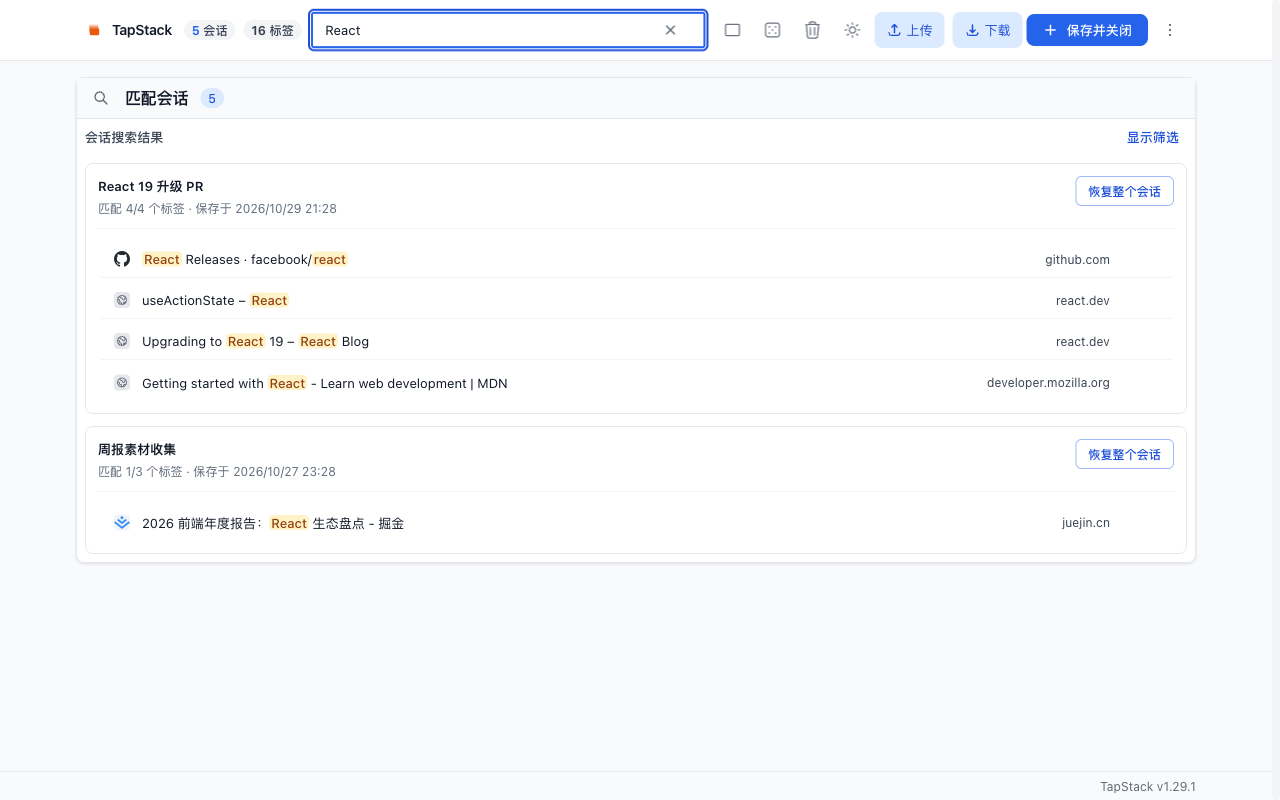
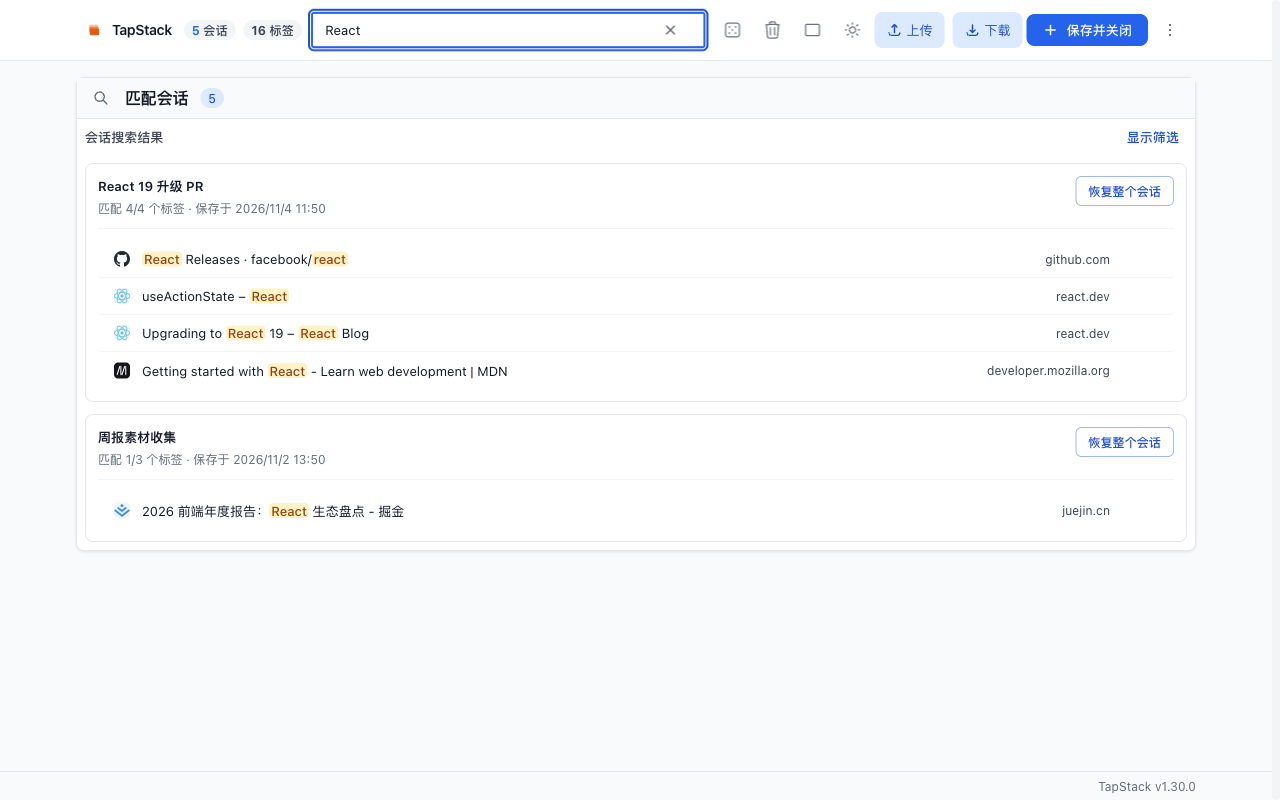
release: v1.30.0 —— 清理旧会话六档 + 搜索结果卡懒渲染
- 修「清理旧会话」时间档/保留锁定点击后不弹确认框：子菜单行在同一个 click
  里被卸载，外点处理器把脱离文档的 target 误判为外部点击并关掉整个菜单。
  收起子菜单改到拿到计划之后，外点处理器补 isConnected 守卫。
- 新增 scripts/e2e-cleanup-menu.mjs（登记进 run-e2e）：六档逐个点击，断言确认框
  出现、取消不改数据、确认后只删该删的；23/23 通过。
- 搜索结果改为准确的「结果卡级懒渲染」命名，并新增近端单组仍渲染全部行的边界用例。
- 云端墓碑测试改用相对时间，避免 30 天后被清理逻辑删掉而静默失效；商店截图重拍。
- 版本五处同步到 1.30.0，补发版台账与商店文案。

diff --git a/src/components/search/SearchResultList.tsx b/src/components/search/SearchResultList.tsx
@@ -252,19 +252,21 @@ export const SearchResultList: React.FC<SearchResultListProps> = ({
   //      AdvancedSearch 已按相关度排好序 ⇒ 截断是排序的兑现，不是信息损失。
   //      截断了必须说清「还有 N 条未显示」。它按整组保留 ⇒ 卡头数也被
   //      上限压住（每组至少命中 1 条才会留下）。
-  //   2. **组内行窗口化**（`SearchMatchRows`）：上限不约束单个组有多少行
-  //      （一个会话命中 800 条时那 800 行会一次进 DOM）⇒ 组内命中行与主列表
-  //      共用同一套「接近视口才渲染真行、远端留等高占位」机制。
+  //   2. **结果卡级懒渲染**（`SearchMatchRows`）：上限不约束单个组有多少行
+  //      （一个会话命中 800 条时那 800 行会一次进 DOM）⇒ 远端卡的命中行不挂载，
+  //      只留等高占位；卡进入视口附近时再挂载它的**全部**命中行。
+  //      ⚠ 这是卡级，不是行级：近端单组的行数仍等于该组命中数（2026-11-04
+  //      实测 300 条命中 ⇒ 300 行）。单组内部的按视口切片不在本机制范围内。
   //
   // ── 曾经计划的「分片渲染」已删除，不是还没接线 ─────────────────────────
   // `searchWindowing.ts` 里曾有 `computeVisibleChunks` / `chunkResults` /
   // `SEARCH_CHUNK_SIZE`，零生产调用点。2026-11-03 用
   // `scripts/prod-stress.mjs` 重新实测（400 会话 × 20 标签）：
   //   · 搜索响应 367ms（其中 300ms 是搜索框的**故意**防抖）
-  //   · 搜索态 DOM：加组内行窗口化**之前** 3,892 → **之后** 1,521
+  //   · 搜索态 DOM：加结果卡懒渲染**之前** 3,892 → **之后** 1,521
   //   · 滚动最大帧间隔 15ms；搜索态滚到底前后文档总高不变（占位等高）
-  // ⇒ 条数上限已经把「全量渲染」挡住了；缺的那一段（单组行数）用**同一套**
-  //   已有机制补上就够了。再挂一套没有真实调用历史的分片窗口化，只会与
+  // ⇒ 条数上限已经把「全量渲染」挡住了；远端卡的行不挂载，已经能挡住绝大多数场景；
+  //   单组内部的行数仍不设上界（见上）。再挂一套没有真实调用历史的分片窗口化，只会与
   //   上面第 2 道互相冲突。代码与单测一并删除。
   // 守卫见 tests/guards/searchRowsWindowing.test.ts（渲染产物级）。
   const resultWindow = useMemo(
@@ -1318,10 +1320,11 @@ export const SearchResultList: React.FC<SearchResultListProps> = ({
               </Tooltip>
             </div>
 
-            {/* ── 2026-11-03：命中行接上与主列表**同一个**窗口化机制 ──────────
+            {/* ── 2026-11-03 / 2026-11-04：结果卡级懒渲染（不是行级窗口化）──────
                 条数上限只约束「保留多少个会话组之前停」，不约束单组行数
-                （一个会话命中 800 条 ⇒ 800 行一次进 DOM）。这里按「本组是否
-                接近视口」决定真行 / 等高占位，判据见 SearchMatchRows.tsx。
+                （一个会话命中 800 条 ⇒ 800 行一次进 DOM）。这里按「本卡是否
+                接近视口」决定真行 / 等高占位；卡在附近时该组全部命中行都会挂载。
+                判据与已知边界见 SearchMatchRows.tsx。
 
                 ⚠ 行之间**不加** space-y-*：行距只有 cardMetrics 一处来源，
                 多一层间距会让占位比真行矮/高，滚进视口时滚动条会跳。 */}

diff --git a/tests/guards/searchRowsWindowing.test.ts b/tests/guards/searchRowsWindowing.test.ts
@@ -1,5 +1,5 @@
 /**
- * 搜索结果卡里的命中行必须**窗口化**（2026-11-03）。
+ * 搜索结果卡里的命中行必须**按结果卡懒渲染**（2026-11-03；2026-11-04 校正命名）。
  *
  * ── 这个文件防的具体事故 ──────────────────────────────────────────────────
  *
@@ -8,9 +8,12 @@
  * 之后才成立 ⇒ 那 800 行仍会一次全部进 DOM。数据结构一旦是「少数会话、
  * 每个会话命中很多条」，上限就管不住渲染量。
  *
- * 修法：组内命中行接到与主列表**同一个**窗口化机制
+ * 修法：每张结果卡的命中行接到与主列表**同一个**懒渲染机制
  * （`useNearViewport` + `resolveRowWindow` + 运行时量出来的行距）——
- * 远端组只留等高占位，滚进视口才挂载真行。
+ * 远端卡只留等高占位，滚进视口附近才挂载真行。
+ *
+ * ⚠ 这是**卡级**，不是行级：近端卡会挂载该组全部命中行（见文件末尾的
+ * 「已知边界」用例）。标题与注释不许再声称「单组行数有上界」。
  *
  * ── 为什么在 SSR 里断言，而不是读源码 ────────────────────────────────────
  *
@@ -95,7 +98,7 @@ function readHeight(el: HtmlElement): number {
   return Number(m![1]);
 }
 
-describe('搜索结果：组内命中行按视口窗口化', () => {
+describe('搜索结果：结果卡按视口懒渲染（卡级，不是行级）', () => {
   it('远端结果卡只留等高占位（卡头有上限，行不随数据量进 DOM）', async () => {
     installFakeIntersectionObserver();
     // 600 组各命中 1 条 ⇒ 上限保留 200 组；如果上限失效，这里会是 600 张卡。
@@ -174,5 +177,25 @@ describe('搜索结果：组内命中行按视口窗口化', () => {
       '降级路径失效：量不到可见性时必须渲染真行（最多慢一点，不能空白）'
     );
     assert.equal(readRowPlaceholders(tree).length, 0, '降级路径下不应有占位');
+  });
+
+  it('已知边界：近端单组仍渲染该组全部命中行（卡级，不是行级窗口化）', async () => {
+    // 没有 IntersectionObserver ⇒ useNearViewport 的初值是 true（降级=全量渲染），
+    // 等价于「这张卡就在视口附近」。一个组 300 条命中时：
+    //   · 条数上限按整组保留 ⇒ 这一组全部留下；
+    //   · 卡在近端 ⇒ 它的全部命中行都要挂载。
+    // 这条**故意**钉住当前边界，防止有人把「远端卡不挂载」误读成「单组行数有上界」。
+    removeIntersectionObserver();
+    const { tree } = await renderSearch(makeGroups([
+      { id: 'huge', name: 'Huge', tabCount: 300, createdAt: '2026-01-01T00:00:00.000Z' },
+    ]));
+
+    assert.equal(readCards(tree).length, 1, '这一组必须被保留');
+    assert.equal(
+      readRows(tree).length,
+      300,
+      '近端单组必须渲染全部命中行（当前边界；做行级窗口化时再改这条判据）'
+    );
+    assert.equal(readRowPlaceholders(tree).length, 0, '近端卡不应有占位');
   });
 });

diff --git a/src/components/layout/HeaderDropdown.tsx b/src/components/layout/HeaderDropdown.tsx
@@ -511,6 +511,10 @@ const authNotice = useAppSelector(state => state.auth.notice ?? null);
       // 也不用 aria-haspopup 选择器 —— 本面板是就地展开的 disclosure，字符串里出现
       // `aria-haspopup` 会被「面板不得宣称 popup menu」的既有守卫判成违规。
       if (target?.closest?.('[data-menu-trigger]')) return;
+      // 被点的节点已经不在文档里（React 在同一次 click 中把它卸载了）⇒
+      // 这不是「外部点击」，`contains` 必然为 false，关菜单会误伤一个正常动作。
+      // 2026-11-04：「清理旧会话」的子菜单行正是这种自卸载节点。
+      if (target && !target.isConnected) return;
       if (target && dropdownRef.current && !dropdownRef.current.contains(target)) {
         onClose();
       }
@@ -824,8 +828,12 @@ const authNotice = useAppSelector(state => state.auth.notice ?? null);
    * （含覆盖上传），一个字节都不改 —— 那一档的语义就是「全删」。
    */
   const handleCleanupTier = async (tier: CleanupTier) => {
-    setOpenSubmenu(null);
-
+    // ⚠ 这里**不能**先 `setOpenSubmenu(null)`：被点的行就在这个子菜单里，
+    // 同步收起会把按钮从 DOM 卸载；同一个 click 继续冒泡到 document 的
+    // 「点外面关闭菜单」处理器时，target 已脱离文档、`contains(target)` 为 false
+    // ⇒ 整个下拉菜单被卸载 ⇒ await 回来时 mountedRef 已 false、确认框永远不弹
+    // （真机表现为「点了清理，菜单一关，什么都没发生」）。
+    // 收起子菜单放到拿到计划之后、showConfirm 之前 —— 那时 click 事件早已结束。
     let diskGroups: TabGroup[];
     try {
       diskGroups = await storage.getGroupsForWrite();
@@ -884,6 +892,9 @@ const authNotice = useAppSelector(state => state.auth.notice ?? null);
           });
         });
     };
+
+    // 计划已定、确认框即将出现 ⇒ 现在可以安全收起子菜单（见函数开头的说明）。
+    setOpenSubmenu(null);
 
     // 与「删除所有会话」同一条焦点纪律：确认框关闭后焦点回到顶栏的菜单按钮。
     registerFocusReturn(document.querySelector<HTMLElement>('[data-menu-trigger]'));

diff --git a/src/components/search/SearchMatchRows.tsx b/src/components/search/SearchMatchRows.tsx
@@ -10,10 +10,15 @@
  *     一个会话里命中 800 条，那 800 行会一次全部进 DOM（数据相关，不是常数）；
  *   · 卡头数最多 200（每组至少命中 1 条才保留）⇒ 这一侧有界，不用再管。
  *
- * 所以这里只做一件事：**把「本组命中行」也接到和主列表同一个窗口化机制上**
+ * 所以这里只做一件事：**给每张结果卡的命中行加一层「接近视口才挂载」**
  * （`useNearViewport` + `resolveRowWindow` + 运行时量出来的行距）。
- * 远端的组只留一个精确等高的占位 ⇒ 同时存在的标签行数由**视口**决定，
- * 而不是由「某个会话存了多少条」决定。
+ * 远端的卡只留一个精确等高的占位 ⇒ 同时挂载**真行**的卡数由视口决定。
+ *
+ * ⚠ 准确说这是**结果卡级**懒渲染，不是行级窗口化：一张卡一旦进入视口附近，
+ *    它的**全部**命中行都会挂载（2026-11-04 实测：单组 300 条命中 ⇒ 300 行、
+ *    0 个占位）。单组命中极多时这一层不会切断该组内部的行数；它解决的是
+ *    「远端卡的行全部进 DOM」。要严格限制单组行数，需要在这张卡内部再做一层
+ *    按视口切片的窗口化 —— 目前没有做，也不在本机制里声称。
  *
  * ── 为什么不是「分片渲染」───────────────────────────────────────────────
  *

diff --git a/src/components/search/searchWindowing.ts b/src/components/search/searchWindowing.ts
@@ -20,7 +20,8 @@
  * 没管住：
  *   · **单个组内的行数**：一个会话命中 800 条时，`used >= visible` 要等这一组
  *     整组计入之后才成立 ⇒ 那 800 行仍会一次进 DOM。
- *   → 组内行由 `SearchMatchRows.tsx` 按视口窗口化（与主列表共用同一套机制）。
+ *   → 远端**结果卡**由 `SearchMatchRows.tsx` 延迟挂载（与主列表共用同一套
+ *     机制）；⚠ 这是卡级懒渲染，不是行级窗口化 —— 近端卡仍渲染该组全部行。
  *
  * ── 曾经计划的「分片渲染」已删除（2026-11-03）──────────────────────────
  *
@@ -31,7 +32,7 @@
  * 为什么不把它接上线：2026-11-03 重新实测（400 会话 × 20 标签）——
  * 搜索响应 367ms（其中 300ms 是搜索框的故意防抖）、搜索态 DOM 3,892 节点、
  * 滚动最大帧间隔 15ms。条数上限已经把问题挡住；再挂一套没有真实调用历史的
- * 分片窗口化，只会与组内行窗口化互相冲突。⇒ 代码与单测一并删除。
+ * 分片窗口化，只会与结果卡懒渲染互相冲突。⇒ 代码与单测一并删除。
  *
  * 守卫：
  *   · tests/searchWindowing.test.ts（截断判据 + 接线）

diff --git a/tests/concededPrecheckDegrade.test.ts b/tests/concededPrecheckDegrade.test.ts
@@ -64,8 +64,12 @@ const USER_ID = 'user-under-test';
 const SESSION_KEY = 'sb-stub-auth-token';
 const LOCAL_DEVICE = 'devLocal';
 const REMOTE_DEVICE = 'devRemote';
-const NOW = '2026-09-29T08:00:00.000Z';
-const LATER = '2026-09-29T09:00:00.000Z';
+// ⚠ 相对当前时间，不写死日期：云端墓碑超过 30 天会被
+// `purgeExpiredCloudTombstones` 物理清掉，而这两个文件考的是「墓碑保住 / 认输」。
+// 固定 2026-09-29 在 2026-10-29 之后就会过期 ⇒ 测试自己把墓碑删了 ⇒ 断言读取
+// 不存在的行（actual undefined），守卫静默失效。2026-11-04 实测修掉。
+const NOW = new Date(Date.now() - 2 * 60 * 60 * 1000).toISOString();
+const LATER = new Date(Date.now() - 60 * 60 * 1000).toISOString();
 
 /** 认输预检（findConcededGroupIds）发出的那次 GET 的投影——故障注入靠它定位 */
 const PRECHECK_COLS = ['id', 'is_deleted', 'last_op_device', 'last_op_seq'];

diff --git a/tests/syncUploadDownloadSafety.test.ts b/tests/syncUploadDownloadSafety.test.ts
@@ -64,8 +64,12 @@ const USER_ID = 'user-under-test';
 const SESSION_KEY = 'sb-stub-auth-token';
 const LOCAL_DEVICE = 'devLocal';
 const REMOTE_DEVICE = 'devRemote';
-const NOW = '2026-09-29T08:00:00.000Z';
-const LATER = '2026-09-29T09:00:00.000Z';
+// ⚠ 相对当前时间，不写死日期：云端墓碑超过 30 天会被
+// `purgeExpiredCloudTombstones` 物理清掉，而这两个文件考的是「墓碑保住 / 认输」。
+// 固定 2026-09-29 在 2026-10-29 之后就会过期 ⇒ 测试自己把墓碑删了 ⇒ 断言读取
+// 不存在的行（actual undefined），守卫静默失效。2026-11-04 实测修掉。
+const NOW = new Date(Date.now() - 2 * 60 * 60 * 1000).toISOString();
+const LATER = new Date(Date.now() - 60 * 60 * 1000).toISOString();
 
 // ── 本地存储桩（无 indexedDB 时 storageAdapter 回退到 localStorage）────────
 const lsData = new Map<string, string>();

diff --git a/tests/guards/searchRowsWindowingMutation.test.ts b/tests/guards/searchRowsWindowingMutation.test.ts
@@ -1,5 +1,5 @@
 /**
- * 变异自证：搜索结果「组内行窗口化」的守卫必须真的看得见破口（2026-11-03）。
+ * 变异自证：搜索结果「结果卡懒渲染」的守卫必须真的看得见破口（2026-11-03）。
  *
  * 沙箱的做法见 `tests/_helpers/mutationSandbox.ts`。
  *
@@ -19,7 +19,7 @@ const GUARD = 'tests/guards/searchRowsWindowing.test.ts';
 const ROWS_COMPONENT = 'src/components/search/SearchMatchRows.tsx';
 const RESULT_LIST = 'src/components/search/SearchResultList.tsx';
 
-describe('变异自证：搜索结果组内行窗口化', () => {
+describe('变异自证：搜索结果卡懒渲染', () => {
   it('M1：窗口化组件永远渲染真行 ⇒ 守卫必须变红', () => {
     const [outcome] = runMutationCases([
       {

diff --git a/CHROMEWEBSTORE.md b/CHROMEWEBSTORE.md
@@ -1,6 +1,15 @@
 # Chrome Web Store Listing — TapStack
 
-> Last Updated: 2026-11-02
+> Last Updated: 2026-11-04
+>
+> **2026-11-04：`1.30.0` 代码与产物就绪（未提审）**：新增「清理旧会话」六档
+> （一个月 / 三个月 / 六个月 / 一年 / 保留锁定 / 含锁定），菜单里现场显示每档会删几个会话，
+> 确认框列出会话名与标签页数，锁定的会话默认保留；删除仍不可撤销。
+> 同时修掉一个**真机阻塞缺陷**：时间档与「保留锁定」点击后菜单关闭、确认框不出现
+> （根因是同一个 click 里先卸载了子菜单按钮；已由 `scripts/e2e-cleanup-menu.mjs`
+> 的 23 条真机判据钉住）。搜索结果改为**结果卡级懒渲染**（远端卡只留等高占位），
+> 并删除从未接线的「分片渲染」死代码。
+> ⚠ 线上仍是 `1.29.2`；本版文案与截图尚未上传，商店后台仍需人工粘贴。
 >
 > **2026-11-02 提审 `1.29.2`，2026-11-02 稍后实证已上架**：顶栏顺序改为
 > **骰子 → 清理重复 → 布局切换 → 主题**；
@@ -337,8 +346,8 @@ Productivity
 | Asset | Dimensions | Status | Filename |
 |-------|-----------|--------|----------|
 | Store Icon [REQUIRED] | 128×128 PNG | ✅ Ready | icons/icon128.png |
-| Screenshot 1 [REQUIRED] | 1280×800 | ✅ Ready | store-assets/screenshot-1-main.png（2026-10-30 重拍，1.29.1：界面 = v1.25.1 —— 会话卡**不带** favicon、卡头 5 个按钮、标签行右侧显示域名；筛选工具条上有「排序」下拉；卡头第一颗是 accent 的「在当前窗口打开」） |
-| Screenshot 2 [RECOMMENDED] | 1280×800 | ✅ Ready | store-assets/screenshot-2-search.png（2026-10-30 重拍，页脚显示 TapStack v1.29.1） |
+| Screenshot 1 [REQUIRED] | 1280×800 | ✅ Ready | store-assets/screenshot-1-main.png（2026-11-04 重拍，1.30.0：界面 = v1.25.1 —— 会话卡**不带** favicon、卡头 5 个按钮、标签行右侧显示域名；筛选工具条上有「排序」下拉；卡头第一颗是 accent 的「在当前窗口打开」） |
+| Screenshot 2 [RECOMMENDED] | 1280×800 | ✅ Ready | store-assets/screenshot-2-search.png（2026-11-04 重拍，页脚显示 TapStack v1.30.0） |
 | Small Promo Tile [RECOMMENDED] | 440×280 | ✅ Ready | store-assets/promo-tile-440x280.png（2026-10-20 新建；源文件 store-assets/promo-tile-440x280.svg，PNG 无 alpha 通道，符合 CWS 要求） |
 
 <!-- 宣传图与图标**必须讲同一个故事** —— 商店里两张图并排出现。
@@ -609,6 +618,7 @@ https://github.com/hibernate-pano/chrome-plugin-one-tab
 
 | Version | Date | Changes | Status |
 |---------|------|---------|--------|
+| 1.30.0 | 2026-11-04 | **清理旧会话**：右上角菜单新增六档批删（一个月 / 三个月 / 六个月 / 一年 / 保留锁定 / 含锁定），每档现场显示会删几个会话；确认框列出会话名、标签页数与「保存时间未知按导入时间算」，锁定的会话默认保留；删除仍不可撤销。**搜索结果卡懒渲染**：远端结果卡只留等高占位，搜索态 DOM 大幅下降；顺带删除从未接线的分片渲染死代码。 | **未提审**（代码、单测与 1280×800 截图就绪；待 `pnpm package` → upload → publish。线上仍为 1.29.2） |
 | 1.29.2 | 2026-11-02 | **顶栏顺序：骰子排第一**。按钮按重要度重排：骰子 → 清理重复 → 布局切换 → 主题。顺带修三处：①「在新窗口恢复」现在真的把新窗口带到眼前（以前新窗口开在**后台**，看起来像没反应）；② 骰子只从列表里**看得见的那一批**里抽（以前可能抽到第 200 条之后、屏幕上根本没有的记录）；③ 自带 WebDAV 云盘在「同一会话新旧两份并存」时，不再误报同步失败 / 删除没落盘。 | **已上架**（2026-11-02 upload 回包 `uploadState: SUCCESS` → 草稿 `crxVersion: 1.29.2` → publish 回包 `{"status":["OK"]}` → 再发一次 publish 得到 400「in review」自证在审核队列；**2026-11-02 稍后公开页实证 `Version 1.29.2` / `Updated November 1, 2026` ⇒ 线上已发布 = 1.29.2**）。⚠ **商店文案与截图仍是 1.28.7 那一套**（线上仍在承诺已下线的「撤销」，且没有「随机打开」）；2026-11-02 实测 `store-listing-audit.mjs` = **4 处违规**；审核已放行、编辑锁已解除 ⇒ **现在可以换**（人工粘贴，无 API 通道），贴完删掉 `tests/fixtures/store-listing-live-baseline.json`。⚠ `0 处问题` 不等于「新功能被写进了文案」—— 判据不认识骰子。⚠ 云端 402 已于 2026-11-02 探活确认解除 |
 | 1.29.1 | 2026-10-30 | **随机打开**：顶栏多了一颗**骰子**按钮 —— 从当前列表里抽一条标签页打开。搜索过、或按域名/时间筛过，就只在筛出来的那批里抽；抽中那条照常开在当前窗口，并从会话里移除（和点开单个标签完全一样，同样不可恢复）。锁定会话里的标签、当前设备打不开的地址不参与抽取；抽不到会说一声，不会点了没反应。 | **已上架**（2026-10-30 upload 回包 `uploadState: SUCCESS` → 草稿 `crxVersion: 1.29.1` → publish 回包 `{"status":["OK"]}` → 再发一次 publish 得到 400「in review」自证在审核队列；**2026-11-02 公开页实证 `Version 1.29.1` / `Updated October 29, 2026` ⇒ 线上已发布 = 1.29.1**）。⚠ **商店文案与截图仍是 1.28.7 那一套**（线上仍在承诺已下线的「撤销」，且没有「随机打开」）；2026-11-02 复核：审核期已结束、listing 编辑锁已解除 ⇒ **现在可以换**，人工粘 1.29.1 文案 + 2026-10-30 重拍的截图，贴完删掉 `tests/fixtures/store-listing-live-baseline.json`。⚠ `0 处问题` 不等于「新功能被写进了文案」—— 判据不认识骰子。⚠ 云端 402 仍需项目所有者解封。 |
 | 1.29.0 | 2026-10-26 | **提示不再杵在屏幕正中间，撤销提示整个删掉**。① 提示条回到**右上角** —— 以前杵在正中间，挡着你正在看的东西。② **恢复之后不再冒那条带「撤销」按钮的提示**：恢复时标签**已经开在浏览器里**了，结果界面自己会说明，那个「撤销」纯属噪音。③ 因此「恢复 / 点开」这一步**不可恢复**（本产品没有回收站）—— 这一点现在写在按钮的悬停提示上；想反复用的会话，**先锁定它**，锁定的会话恢复后仍留在列表里。④ 失败**仍然出声**：有几个标签打不开、删除没成功，照旧明说。⑤ **点扩展图标一定会打开标签管理器**：这一窗有能存的标签就先存下并关掉，没有就直接打开管理器 —— 以前「一个都没存下」就只弹一条错误、什么也不做，点完像没点。 | **已上架**（2026-10-26 upload 回包 `uploadState: SUCCESS` → 草稿 `crxVersion: 1.29.0` → publish 回包 `{"status":["OK"]}` → 再发一次 publish 得到 400「in review」自证在审核队列；**2026-10-26 稍后公开页实证 `Version 1.29.0` / `Updated October 26, 2026` ⇒ 线上已发布 = 1.29.0**）。⚠ **商店文案与截图仍是 1.28.7 那一套**（线上描述 9,318 字、仍在承诺**已下线**的「撤销」⇒ 线上在说假话）⇒ **必须人工换掉**（文案没有 API 通道，纯文本见文件头）；这笔欠账已记进 `tests/fixtures/store-listing-live-baseline.json` ⇒ 贴完**把基线文件删掉**，守卫自动升级成「线上必须零违规」。⚠ 云端 402 仍需项目所有者解封，见文件头） |

diff --git a/README.md b/README.md
@@ -1,6 +1,6 @@
 # TapStack
 
-当前版本：`1.29.2`
+当前版本：`1.30.0`
 
 最近一次架构重写：`v1.22.0` 无墓碑重写——
 
